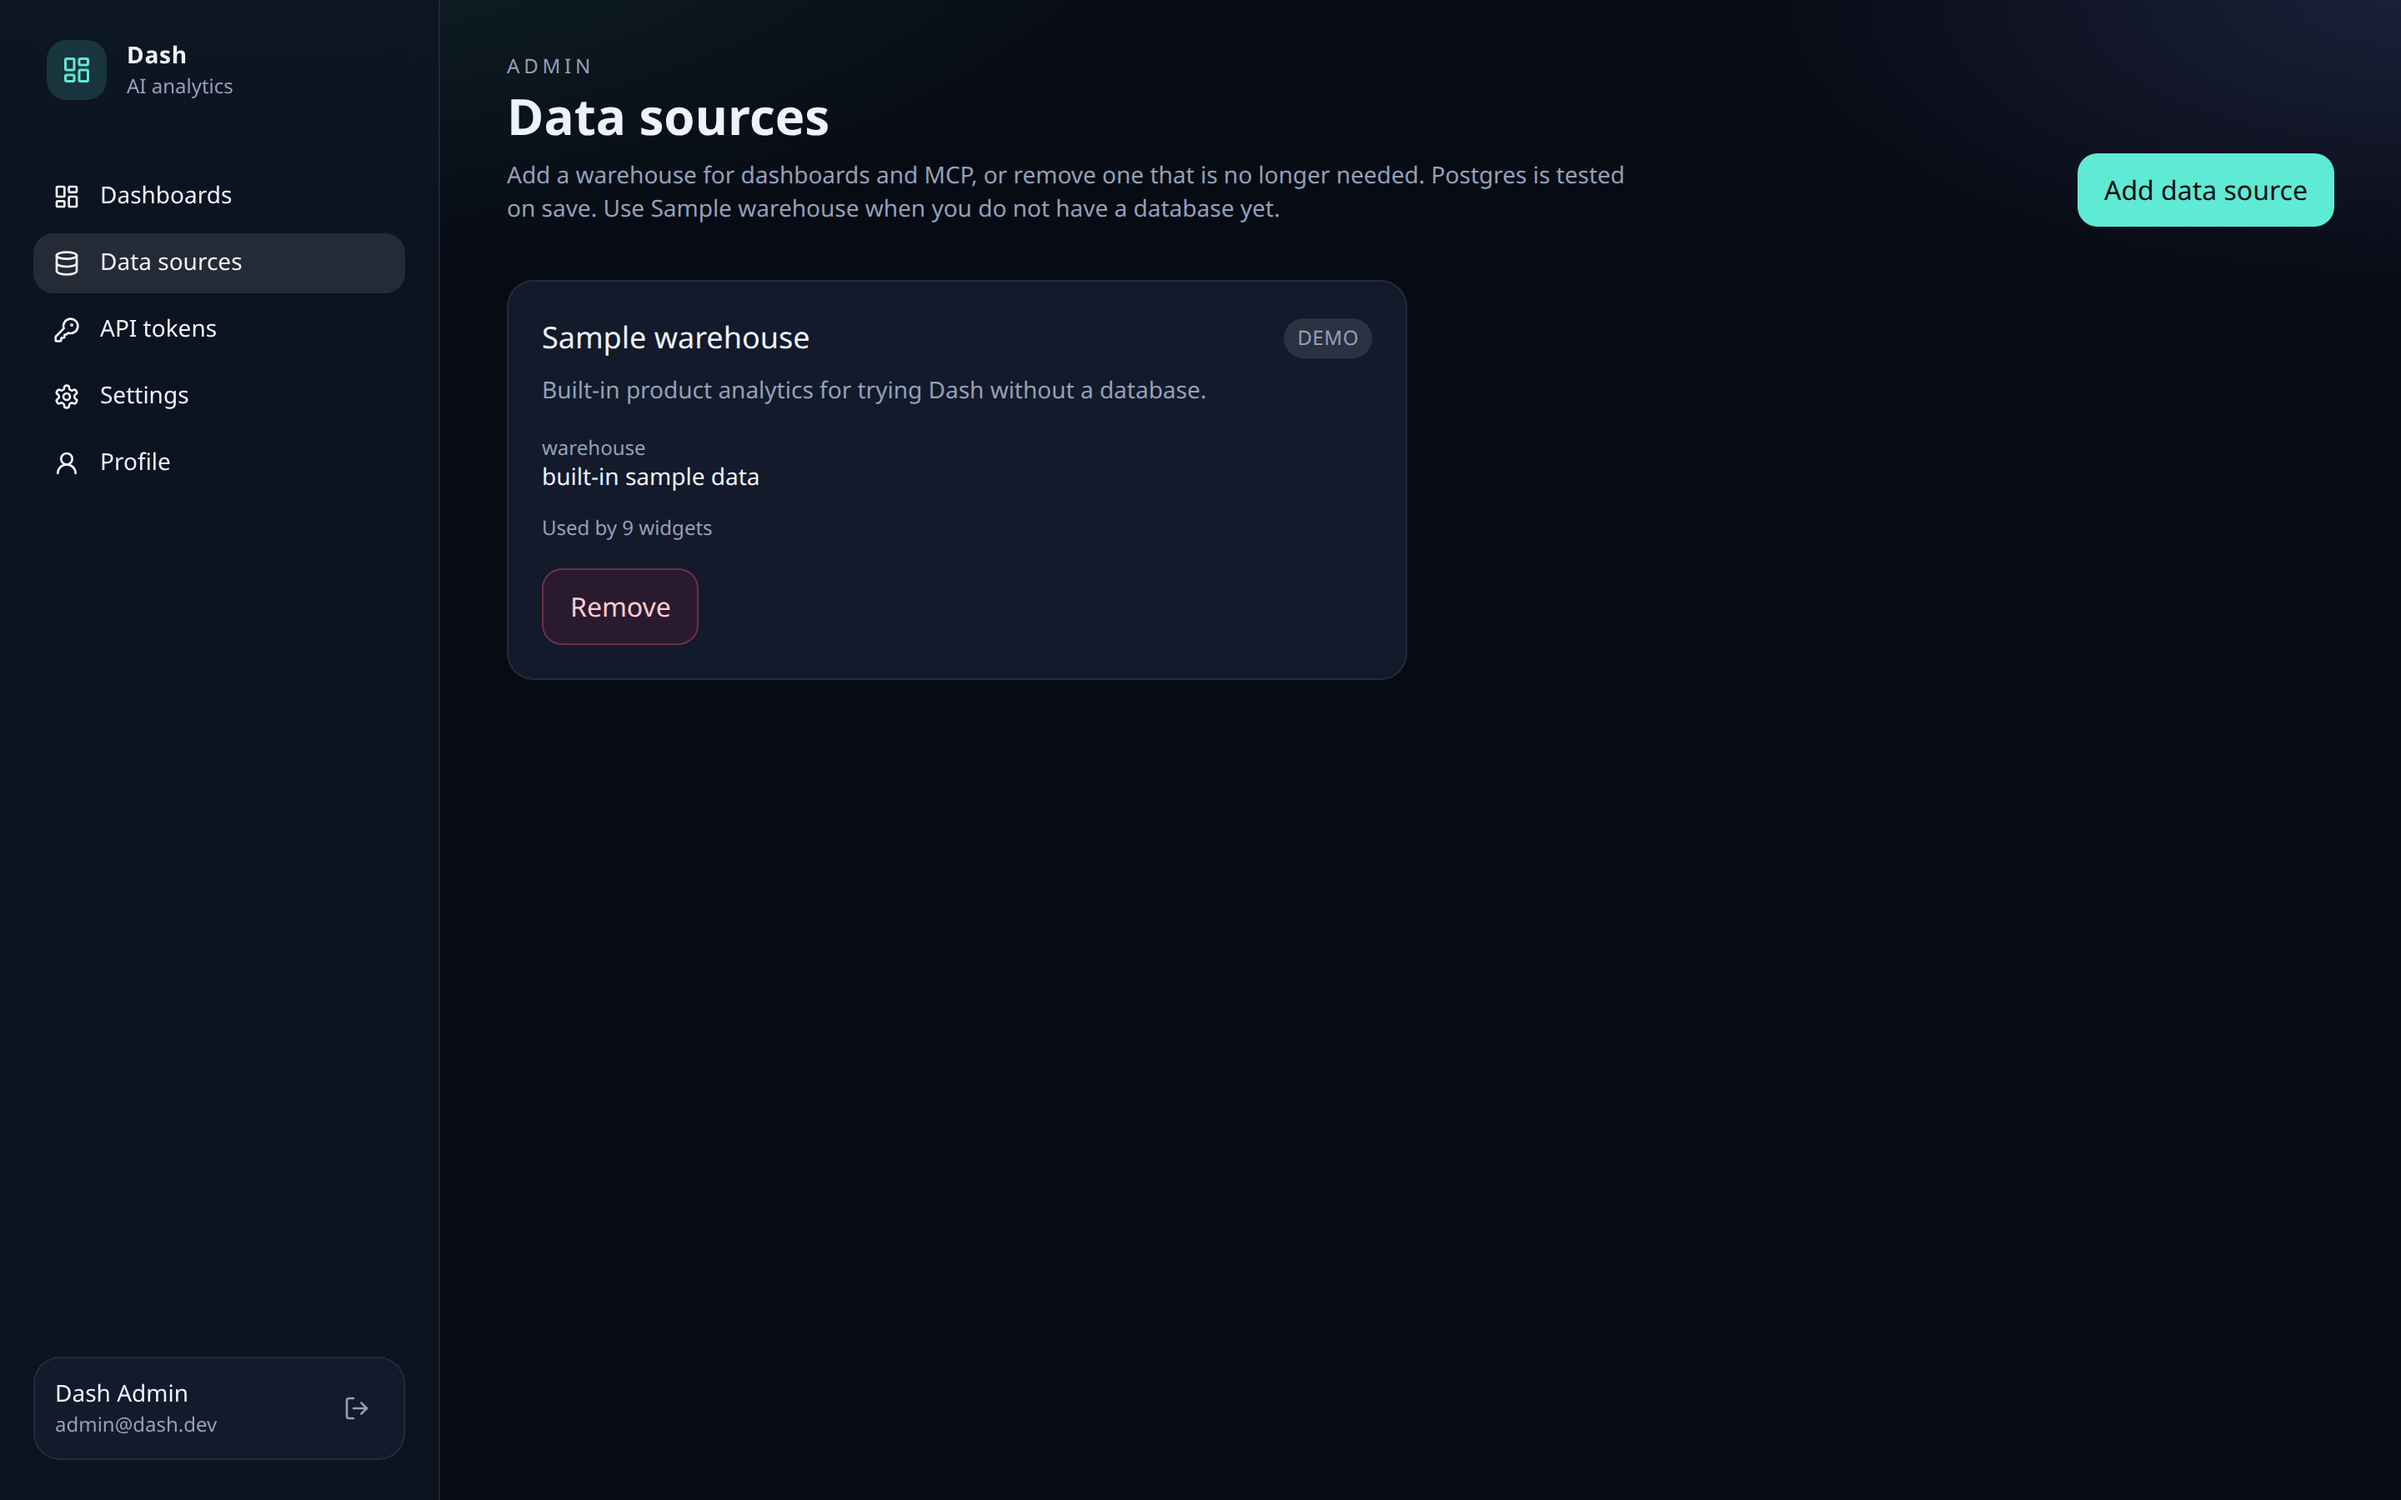
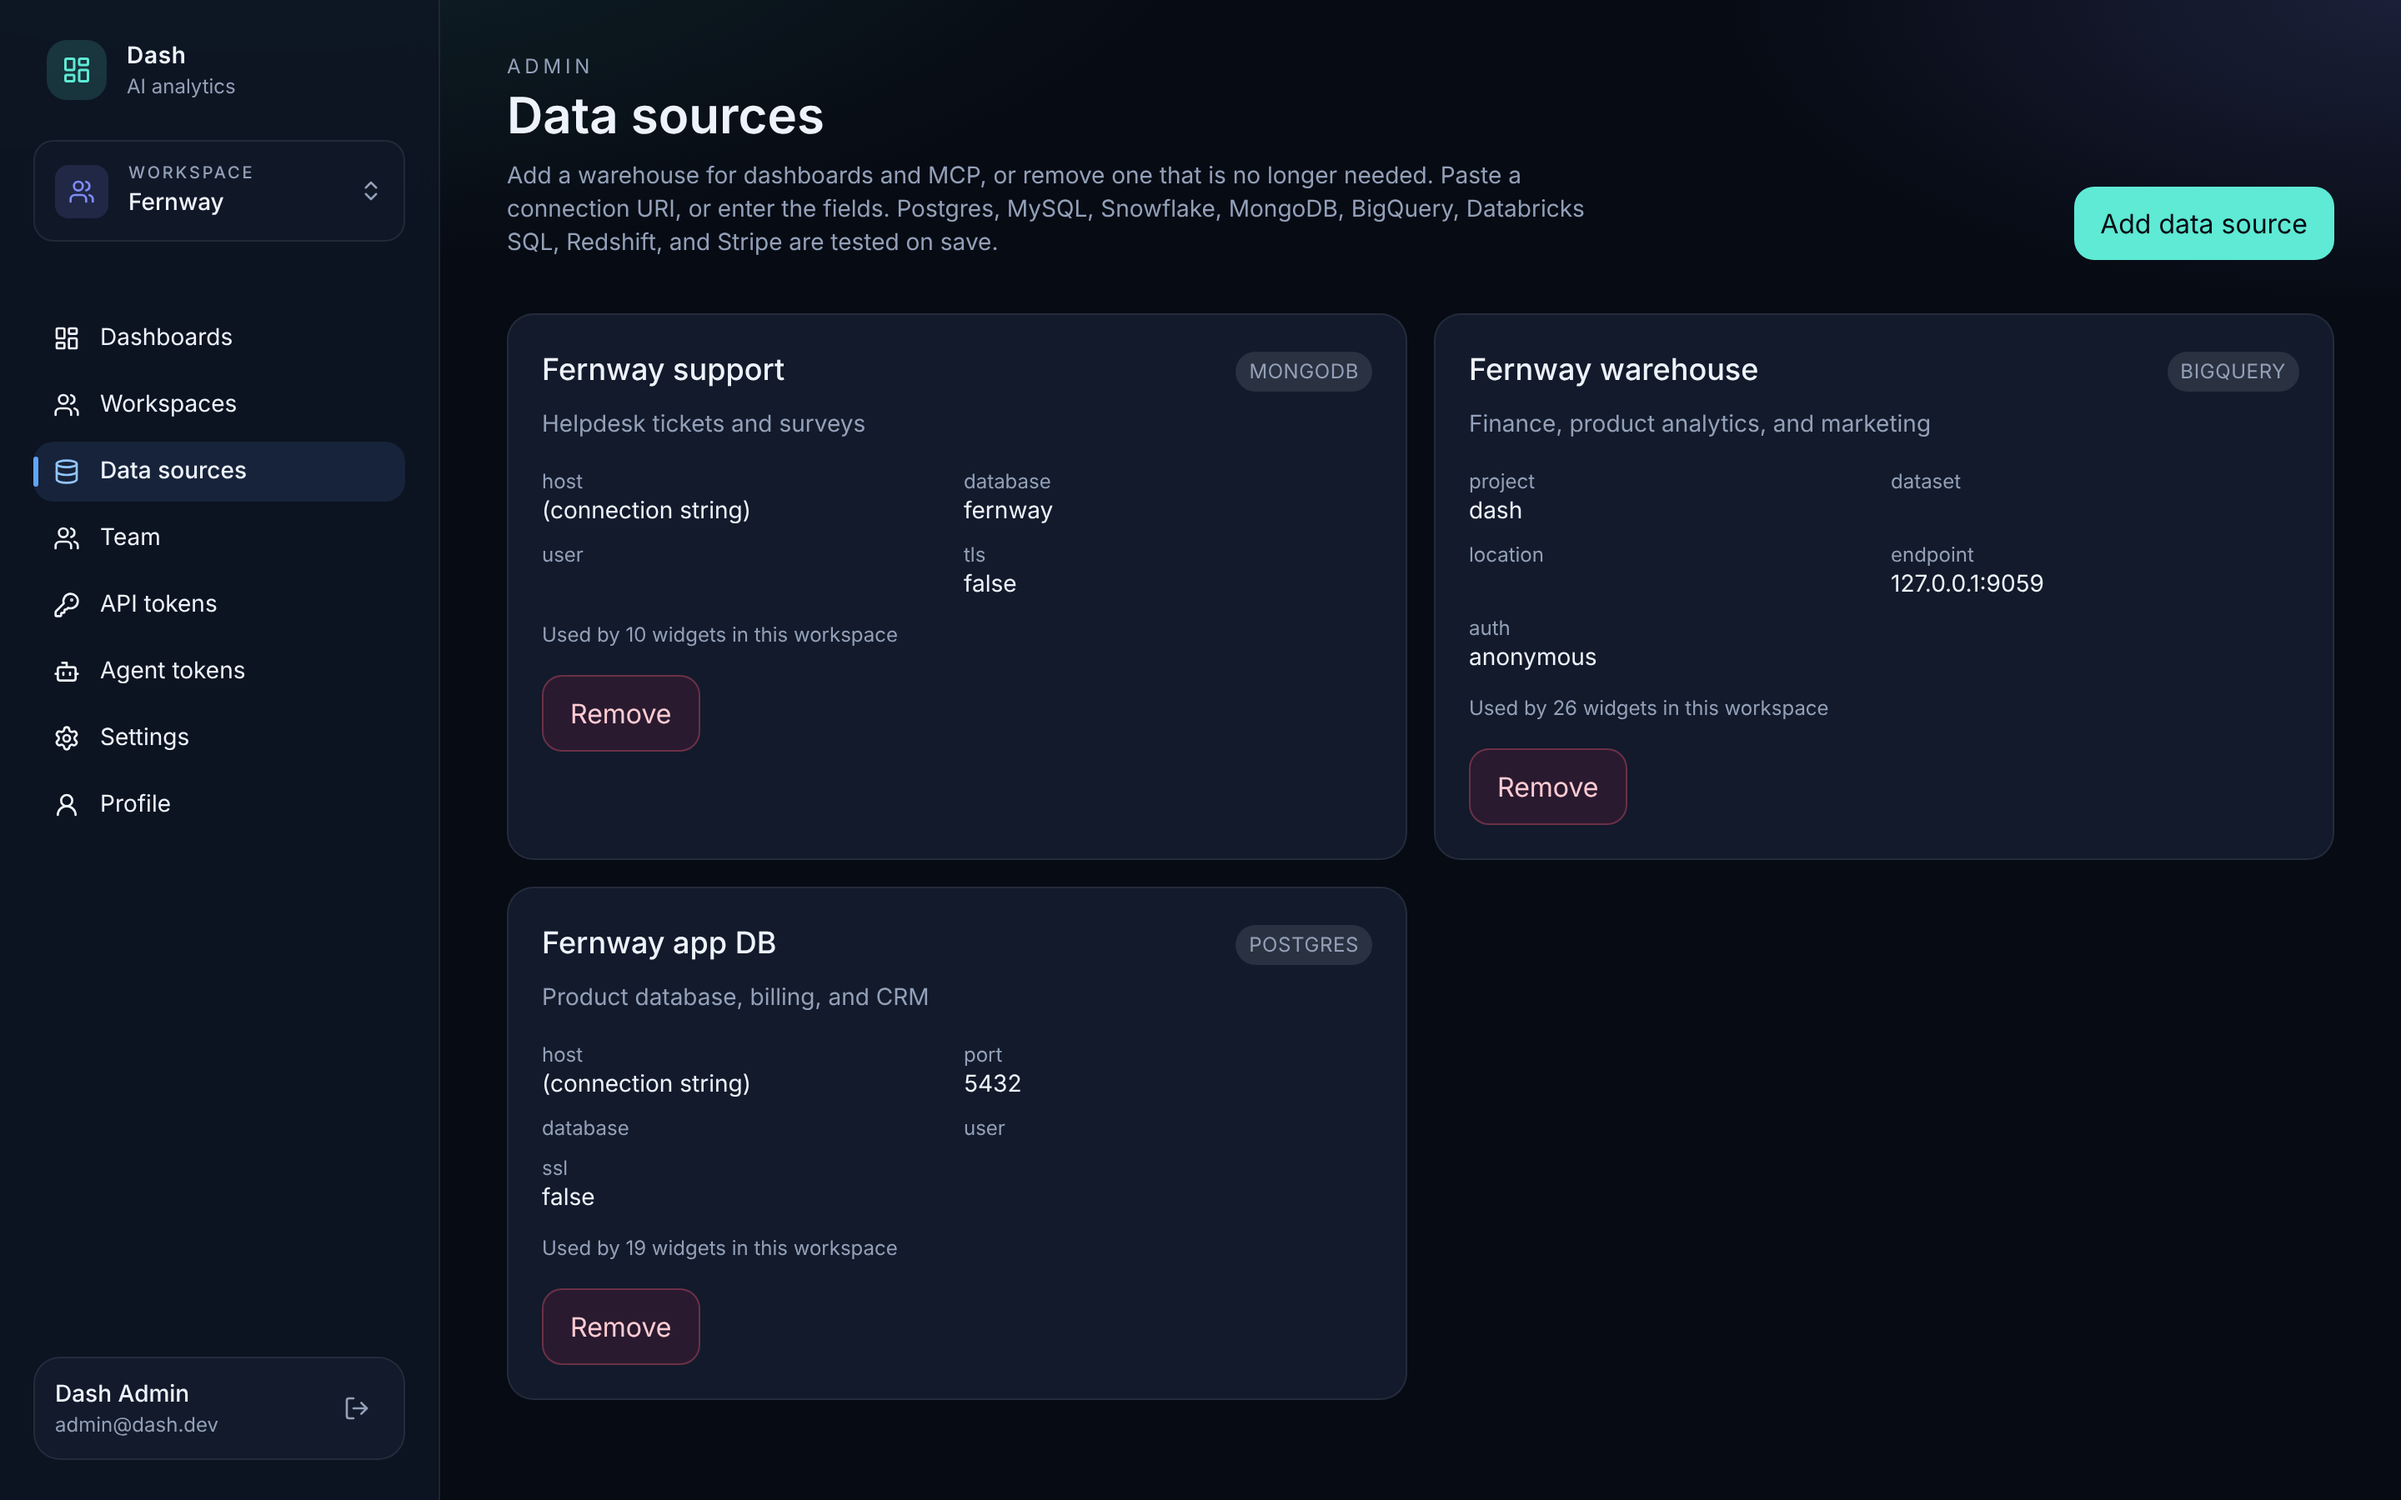
fix: scroll tables inside their cards and retake the README screenshots
- DataTable fills its widget card. The rows scroll inside the card, and
  the header row stays in view. Before, a long table ran past the bottom
  of its card and over the widgets below it.
- WidgetCard makes its body a column flex box, so the table gets the
  card height.
- The seeded mart_first_response_by_priority uses the short column
  names median_minutes and sla_minutes, so the chart legend fits.
- The README screenshots show the Fernway sample company. Executive
  overview and Customer support replace Growth overview and Regional
  revenue review.

Closes #103.

Claude-Session: https://claude.ai/code/session_017rB6hJTgWWKxLV2rtWFqd2

diff --git a/packages/seed/src/model/support.ts b/packages/seed/src/model/support.ts
@@ -449,8 +449,8 @@ export function buildSupport(world: World): { domain: SeedDomain; facts: Support
       priority,
       priority_order: index + 1,
       tickets: rows.length,
-      median_first_response_minutes: frt === null ? null : Math.round(frt),
-      sla_target_minutes: SLA_TARGET[priority]!,
+      median_minutes: frt === null ? null : Math.round(frt),
+      sla_minutes: SLA_TARGET[priority]!,
       sla_breach_rate: rows.length ? ratio(rows.filter((ticket) => ticket.sla_breached).length / rows.length) : 0,
     };
   });
@@ -628,8 +628,8 @@ export function buildSupport(world: World): { domain: SeedDomain; facts: Support
           column("priority", "string", "Ticket priority."),
           column("priority_order", "integer", "Sort order, urgent first."),
           column("tickets", "integer", "Tickets with a reply."),
-          column("median_first_response_minutes", "integer", "Median minutes to the first reply.", { nullable: true }),
-          column("sla_target_minutes", "integer", "SLA target in minutes."),
+          column("median_minutes", "integer", "Median minutes to the first reply.", { nullable: true }),
+          column("sla_minutes", "integer", "SLA target in minutes for the first reply."),
           column("sla_breach_rate", "decimal", "Share of tickets that missed the target.", { scale: 4 }),
         ],
         rows: priorityRows,

diff --git a/packages/web/src/components/DataTable.tsx b/packages/web/src/components/DataTable.tsx
@@ -56,8 +56,9 @@ export function DataTable({
   });
 
   return (
-    <div>
-      <div className="mb-3">
+    // The table fills its widget card. Rows scroll inside the card, and the header stays in view.
+    <div className="flex h-full min-h-0 flex-col">
+      <div className="mb-3 shrink-0">
         <input
           value={globalFilter}
           onChange={(event) => setGlobalFilter(event.target.value)}
@@ -65,11 +66,11 @@ export function DataTable({
           className="w-full rounded-xl border border-line bg-ink px-3 py-2 text-sm outline-none focus:border-accent/60"
         />
       </div>
-      <div className="overflow-auto rounded-xl border border-line">
+      <div className="min-h-0 flex-1 overflow-auto rounded-xl border border-line">
         <table className="min-w-full text-left text-sm">
-          <thead className="bg-white/4 text-mist">
+          <thead className="sticky top-0 z-10 bg-panel text-mist">
             {table.getHeaderGroups().map((group) => (
-              <tr key={group.id}>
+              <tr key={group.id} className="bg-white/4">
                 {group.headers.map((header) => (
                   <th key={header.id} className="px-3 py-2 font-medium">
                     {header.isPlaceholder ? null : (

diff --git a/packages/seed/src/dashboards.ts b/packages/seed/src/dashboards.ts
@@ -277,8 +277,8 @@ export function dashboardSpecs(asOf: Date): DashboardSpec[] {
         },
         {
           id: "sup-priority", type: "chart", title: "First response by priority (minutes)", layout: at(0, 7, 4, 5), domain: "support", table: "mart_first_response_by_priority",
-          query: { columns: ["priority", "median_first_response_minutes", "sla_target_minutes"], orderBy: [{ column: "priority_order", direction: "asc" }] },
-          chart: { type: "column", encode: { x: "priority", y: ["median_first_response_minutes", "sla_target_minutes"] } },
+          query: { columns: ["priority", "median_minutes", "sla_minutes"], orderBy: [{ column: "priority_order", direction: "asc" }] },
+          chart: { type: "column", encode: { x: "priority", y: ["median_minutes", "sla_minutes"] } },
         },
         {
           id: "sup-csat-trend", type: "chart", title: "CSAT by month", layout: at(4, 7, 4, 5), domain: "support", table: "mart_csat_monthly",

diff --git a/packages/web/src/components/WidgetCard.tsx b/packages/web/src/components/WidgetCard.tsx
@@ -31,7 +31,7 @@ export function WidgetCard({ widget }: { widget: DashboardWidget }) {
       {widget.type !== "kpi" ? (
         <h2 className="mb-3 text-sm font-medium text-paper">{widget.title}</h2>
       ) : null}
-      <div className="min-h-0 flex-1">
+      <div className="flex min-h-0 flex-1 flex-col">
         {query.isLoading ? (
           <div className="grid h-full place-items-center text-sm text-mist">Loading…</div>
         ) : query.isError ? (

diff --git a/README.md b/README.md
@@ -6,7 +6,7 @@ Dash is a modern Tableau / Looker-style workspace. Agents can list warehouses, r
 
 ## Screenshots
 
-These screenshots come from an earlier build with a built-in sample warehouse. That warehouse is removed. To get realistic dashboards now, seed the Fernway sample company. See [Sample company data](#sample-company-data-development).
+The screenshots show the Fernway sample company in Postgres, BigQuery, and MongoDB. To get the same dashboards, see [Sample company data](#sample-company-data-development). The Claude Code screenshot comes from an earlier build with a built-in sample warehouse.
 
 ### Sign in
 
@@ -16,19 +16,19 @@ These screenshots come from an earlier build with a built-in sample warehouse. T
 
 ### Dashboards
 
-<img alt="Dashboards list showing Growth overview and Regional revenue review" src="docs/screenshots/dashboards.png" width="880">
+<img alt="Dashboards list in the Fernway workspace with six dashboards" src="docs/screenshots/dashboards.png" width="880">
 
-### Growth overview
+### Executive overview
 
-KPI tiles, a stacked revenue area chart, product mix, signups versus churn, units by product, and a filterable product table.
+ARR, net revenue retention, paying customers, and gross margin. Charts show ARR by segment, new logos by region, MRR movements, and the burn multiple. A table lists the top 25 customers. The data comes from the finance warehouse in BigQuery, and from the product database and the billing export in Postgres.
 
-<img alt="Growth overview dashboard with KPI cards, charts, and a product table" src="docs/screenshots/growth-overview.png" width="880">
+<img alt="Executive overview dashboard with KPI cards, ARR and MRR charts, and a top customers table" src="docs/screenshots/executive-overview.png" width="880">
 
-### Regional revenue review
+### Customer support
 
-A custom page: product revenue, share of sales, the regional stack for the last 12 months, and net new accounts.
+Open tickets, first response time, CSAT, and NPS. Charts show ticket volume, categories, response time by priority, and survey results. The data comes from the support collections in MongoDB.
 
-<img alt="Custom Regional revenue review dashboard" src="docs/screenshots/regional-revenue.png" width="880">
+<img alt="Customer support dashboard with KPI cards, ticket charts, and a table of open tickets" src="docs/screenshots/customer-support.png" width="880">
 
 ### In Claude Code
 
@@ -38,7 +38,7 @@ The same product-revenue chart, drawn in the session after a Dash MCP query agai
 
 ### Data sources
 
-<img alt="Data sources page with the built-in sample warehouse" src="docs/screenshots/data-sources.png" width="880">
+<img alt="Data sources page with the Fernway Postgres, BigQuery, and MongoDB sources" src="docs/screenshots/data-sources.png" width="880">
 
 ### API tokens
 
@@ -52,7 +52,7 @@ Everyone in the organization with their role. Administrators invite people with 
 
 ### Settings
 
-<img alt="Organization settings and the Dash MCP endpoint note" src="docs/screenshots/settings.png" width="880">
+<img alt="Organization settings, the Sample company data panel after a seed run, and the Dash MCP endpoint" src="docs/screenshots/settings.png" width="880">
 
 ### Profile
 

diff --git a/CHANGELOG.md b/CHANGELOG.md
@@ -10,6 +10,8 @@ All notable changes to Dash are documented here.
 
 ### Fixed
 
+- A table widget fills its dashboard card and scrolls inside it. The header row stays in view during the scroll. Before, a long table ran past the bottom of its card and over the widgets below it.
+- The seeded "First response by priority" chart uses the short series names `median_minutes` and `sla_minutes`, so its legend fits in the card. The `mart_first_response_by_priority` columns have the same new names.
 - A concurrent first registration does not keep an account when its email domain is not on the list. Only the account that claims the first user skips the list.
 - A rejected registration cannot sign in when removal of that account fails. The account stays pending, and a later attempt removes it or accepts it.
 - A later registration does not remove the pending account that claimed the first admin. That account becomes the administrator.
@@ -53,6 +55,8 @@ All notable changes to Dash are documented here.
 - `@dash/web` MVP (in `packages/web`): login, register, profile, settings, admin data sources, dynamic dashboards, TanStack Charts, TanStack Table, REST API with session and hashed API tokens, and an MCP server at `/mcp`.
 
 ### Changed
+
+- The README screenshots show the Fernway sample company. The Executive overview and Customer support dashboards replace Growth overview and Regional revenue review.
 
 - The button to copy the MCP URL uses an icon and an accessible label.
 
